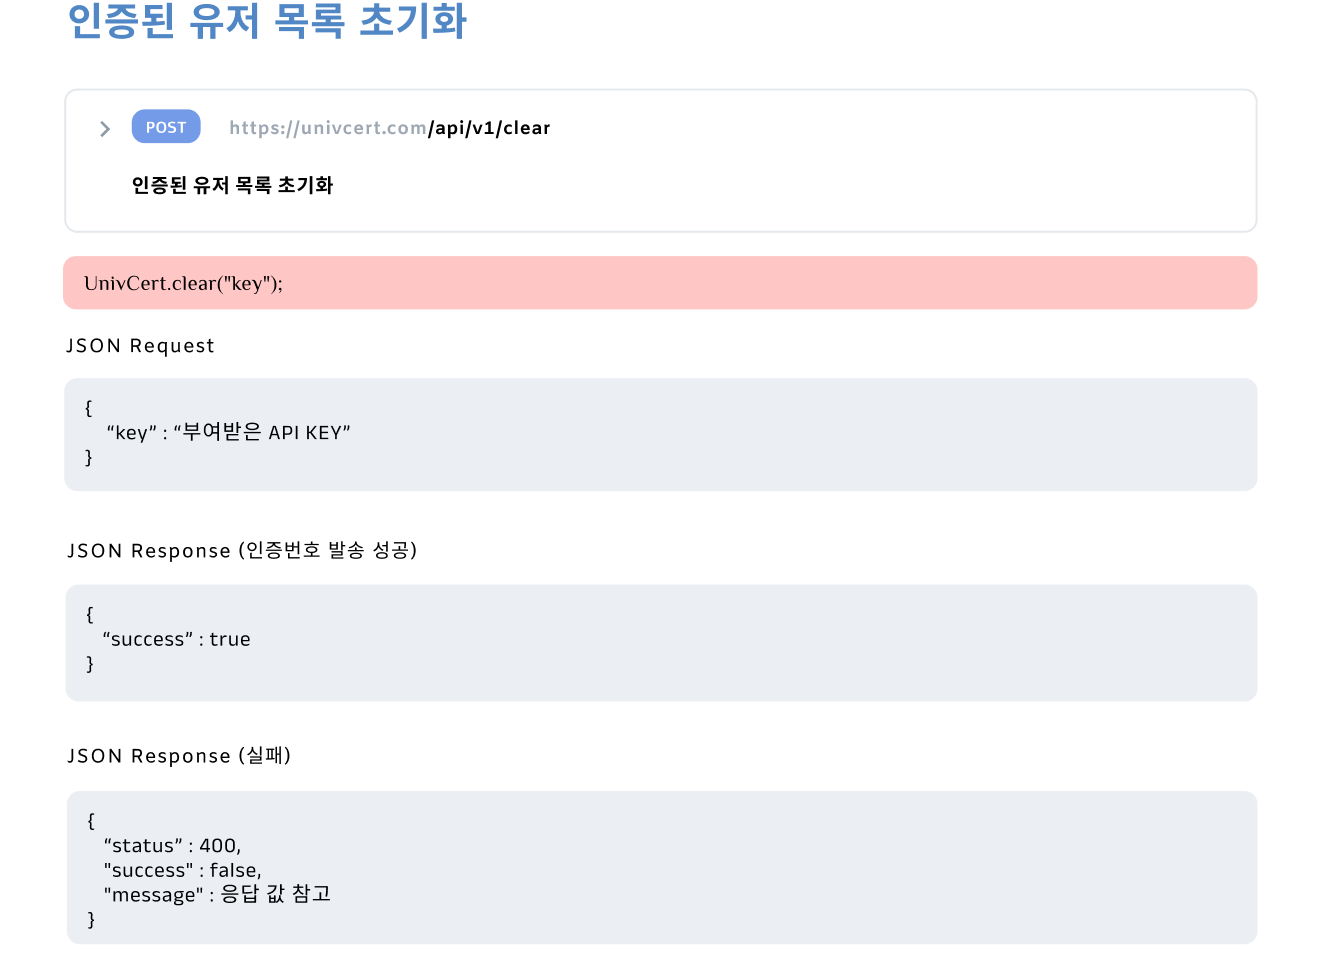
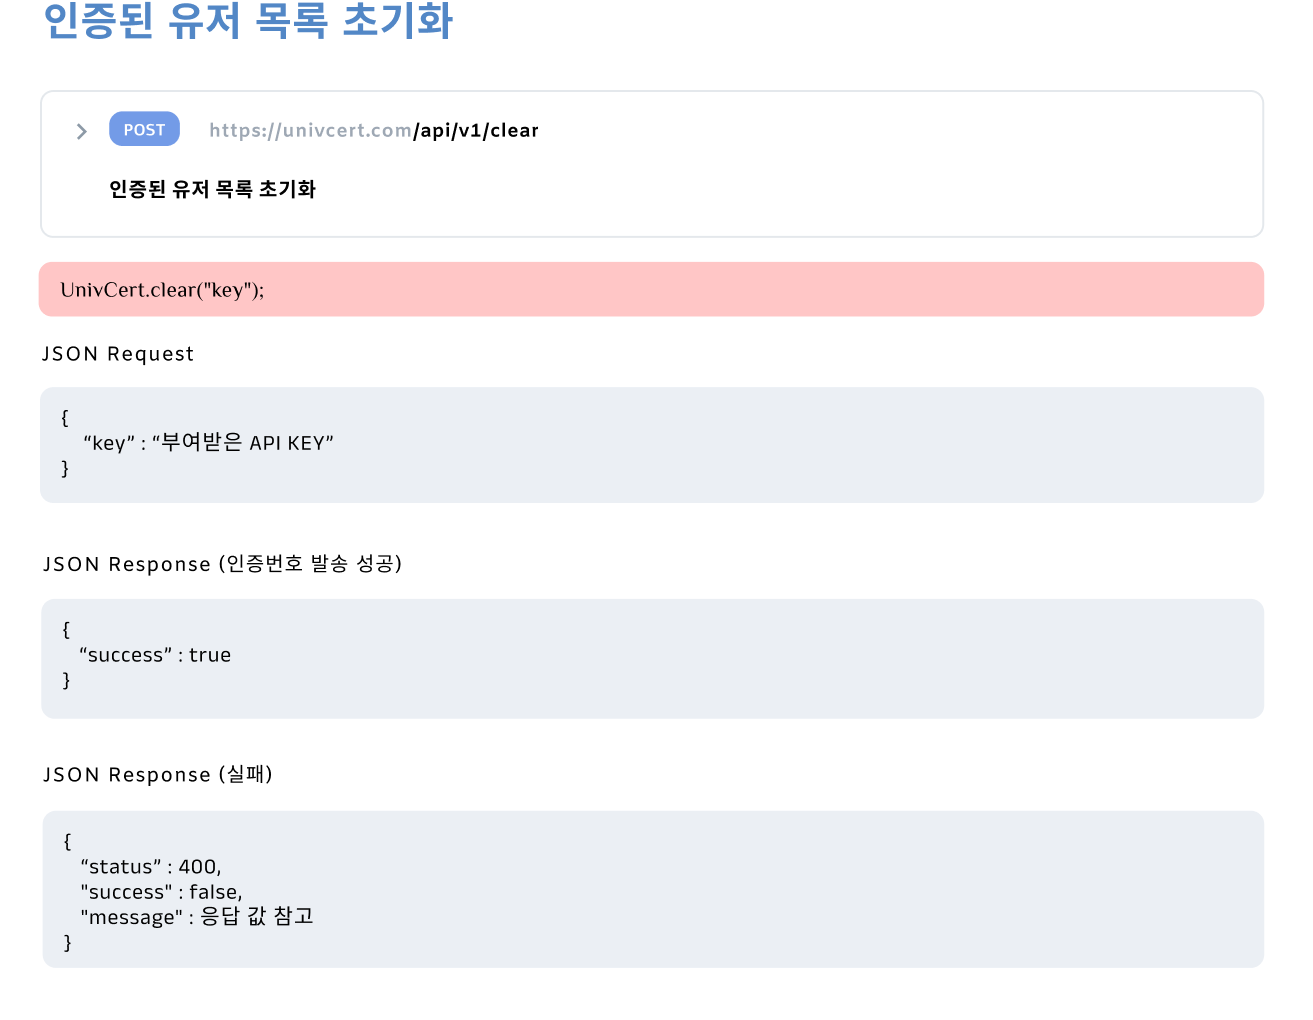
fix:[23.11.24] info page 간격 조정

diff --git a/src/pages/information/Info.css b/src/pages/information/Info.css
@@ -1,6 +1,7 @@
 .slide1{
-    width:1432px;
-    margin-left: 280px;
+    width:1232px;
+    margin:0 auto;
+    padding-left: 180px;
 }
 .container{
     width: 90%;
@@ -13,7 +14,7 @@
     min-width: 900px;
 }
 .FrameImg{
-    width: 96%;
+    width: 95%;
     margin-left: 30px;
 }
 
@@ -49,8 +50,8 @@
     padding: 16px;
     margin-top: 3px;
     margin-bottom: 10px;
-    margin-left: 81px;
-    margin-right: 71px;
+    margin-left: 74px;
+    margin-right: 69px;
     background: #EBEFF4;
     border-radius: 10px;
 }
